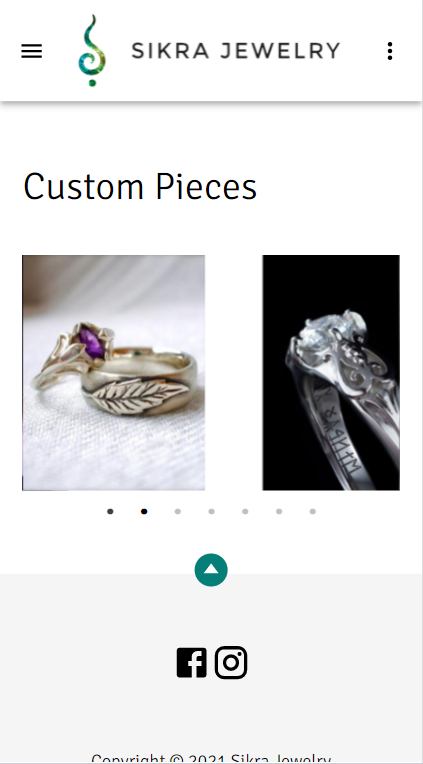
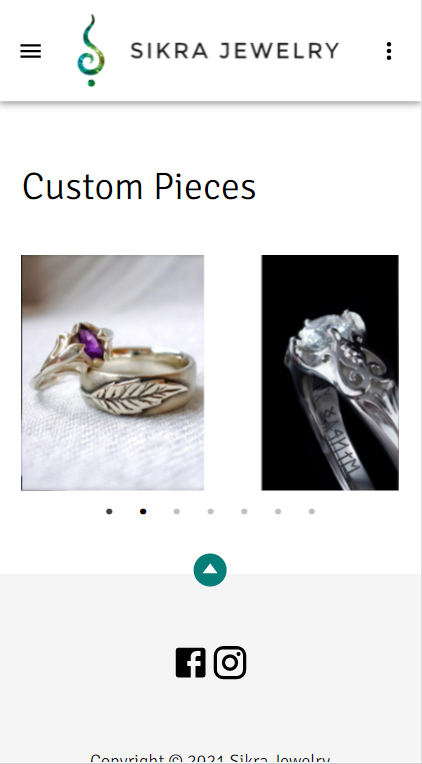
Modified readme images

diff --git a/README.md b/README.md
@@ -23,7 +23,7 @@ Sikra Jewely is the life work of Sára Vajda, an incredibly talented goldsmith. 
 
 <p align="center">
   <img style="width:300px" src='./images/homepage.png'/>
-  <img style="width:300px" src='./images/Custom.png'/>
+  <img style="width:300px" src='./images/custom.png'/>
 </p>
 
 <p align="center">
